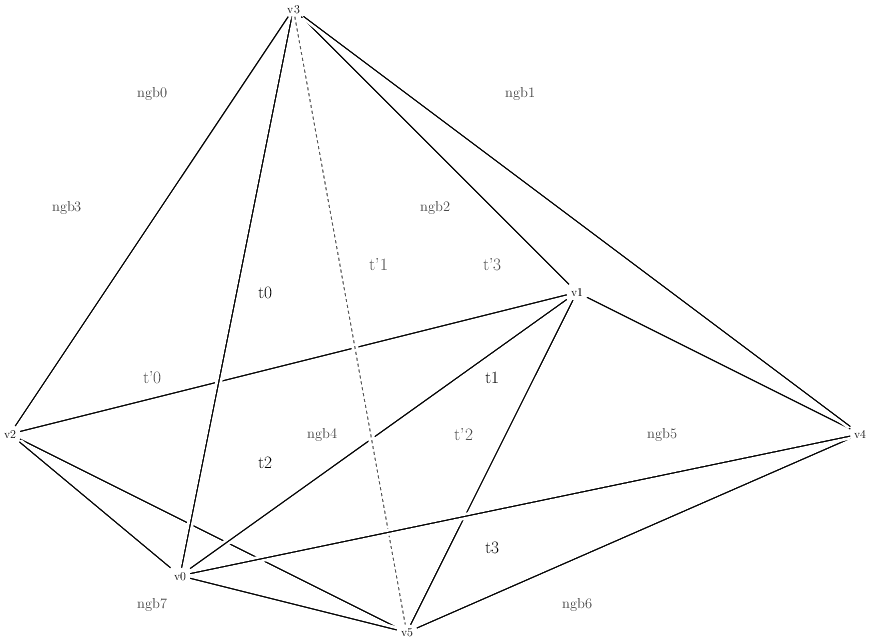
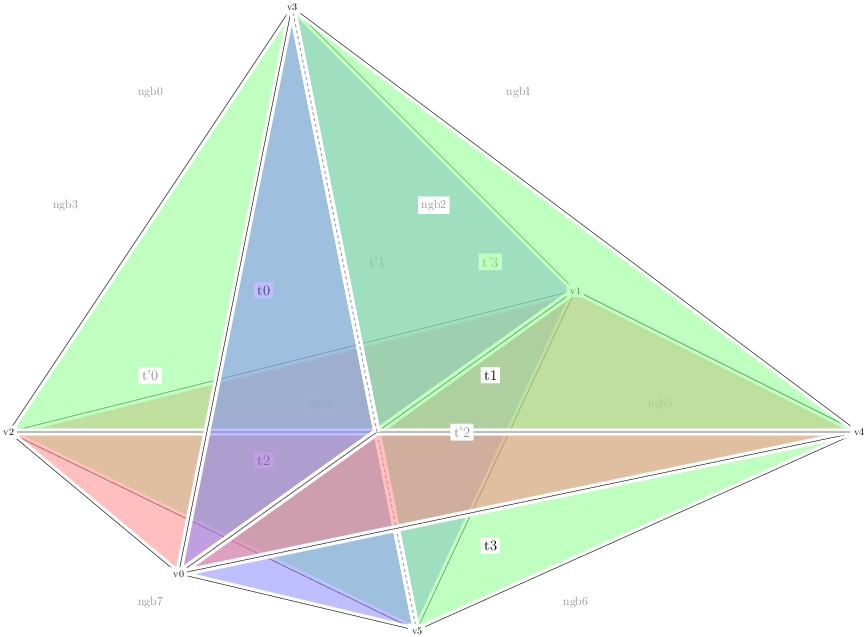
Improved 4 to 4 flip documentation and figure.

diff --git a/doc/newvoronoicell_four_to_four_flip.tex b/doc/newvoronoicell_four_to_four_flip.tex
@@ -1,10 +1,11 @@
-\documentclass[12pt]{standalone}
+\documentclass[convert={density=72,outext=.png}]{standalone}
 \usepackage{tikz}
 \usetikzlibrary{shapes.geometric, arrows}
 \usepackage{amsmath}
 
-\tikzstyle{node} = [rectangle, text centered, align=center]
-\tikzstyle{stealthnode} = [rectangle, text centered, align=center, color=gray]
+\tikzstyle{node} = [rectangle, text centered, align=center, fill=white]
+\tikzstyle{stealthnode} = [rectangle, text centered, align=center, color=gray,
+                           fill=white]
 \tikzstyle{arrow} = [thick,>=stealth]
 \tikzstyle{stealtharrow} = [thick,>=stealth, color=gray, dashed]
 
@@ -19,56 +20,90 @@
     \draw [#3] (#1) -- (#2);
 }
 
+\newcommand{\drawFace}[4]
+{
+  \fill [color=#4!50, opacity = 0.5] (#1) -- (#2) -- (#3) -- (#1);
+  \begin{scope}
+  \draw [color=white, line width=7pt, opacity=1.0] (#1) -- (#2) -- (#3) -- (#1);
+  \end{scope}
+  \draw (#1) -- (#2) -- (#3) -- (#1);
+}
+
 \begin{document}
 
 \begin{tikzpicture}[node distance=4.5cm]
-\node (v3) [node] {v3};
-\node (v1) [node, xshift = 10.0cm, yshift=-10.0cm] {v1};
-\node (v2) [node, xshift = -10.0cm, yshift=-15.0cm] {v2};
-\node (v0) [node, xshift = -4.0cm, yshift=-20.0cm] {v0};
-\node (v4) [node, xshift = 20.0cm, yshift=-15.0cm] {v4};
-\node (v5) [node, xshift = 4.0cm, yshift=-22.0cm] {v5};
+\coordinate (c0) at (-4.0cm, -20.0cm);
+\coordinate (c1) at (10.0cm, -10.0cm);
+\coordinate (c2) at (-10.0cm, -15.0cm);
+\coordinate (c3) at (0.0cm, 0.0cm);
+\coordinate (c4) at (20.0cm, -15.0cm);
+\coordinate (c5) at (4.4cm, -22.0cm);
+\coordinate (intersect) at (3.0cm, -15.0cm);
 
-\drawLinewithBG{v1}{v3}{arrow}
-\drawLinewithBG{v1}{v2}{arrow}
-\drawLinewithBG{v2}{v5}{arrow}
-\drawLinewithBG{v0}{v1}{arrow}
-\drawLinewithBG{v0}{v2}{arrow}
-\drawLinewithBG{v0}{v3}{arrow}
-\drawLinewithBG{v2}{v3}{arrow}
+\drawLinewithBG{c1}{c3}{arrow}
+\drawLinewithBG{c1}{c2}{arrow}
+\drawLinewithBG{c2}{c5}{arrow}
+\drawLinewithBG{c0}{c1}{arrow}
+\drawLinewithBG{c0}{c2}{arrow}
+\drawLinewithBG{c0}{c3}{arrow}
+\drawLinewithBG{c2}{c3}{arrow}
 
-\drawLinewithBG{v1}{v5}{arrow}
-\drawLinewithBG{v1}{v4}{arrow}
-\drawLinewithBG{v3}{v4}{arrow}
+\drawLinewithBG{c1}{c5}{arrow}
+\drawLinewithBG{c1}{c4}{arrow}
+\drawLinewithBG{c3}{c4}{arrow}
 
-\drawLinewithBG{v0}{v5}{arrow}
-\drawLinewithBG{v1}{v5}{arrow}
+\drawLinewithBG{c0}{c5}{arrow}
+\drawLinewithBG{c1}{c5}{arrow}
 
-\drawLinewithBG{v0}{v5}{arrow}
-\drawLinewithBG{v4}{v5}{arrow}
+\drawLinewithBG{c0}{c5}{arrow}
+\drawLinewithBG{c4}{c5}{arrow}
 
-\drawLinewithBG{v3}{v5}{stealtharrow}
+\drawLinewithBG{c3}{c5}{stealtharrow}
 
-\drawLinewithBG{v0}{v4}{arrow}
+\drawLinewithBG{c0}{c4}{arrow}
+
+\node [stealthnode, xshift = 1.0cm, yshift = -14.0cm] {\large ngb4};
+\node [stealthnode, xshift = 13.0cm, yshift = -14.0cm] {\large ngb5};
+
+\drawFace{c2}{c5}{intersect}{green}
+\node [node, xshift = -1.0cm, yshift = -16.0cm] {\Large t2};
+\drawFace{c0}{c1}{c2}{red}
+\drawFace{c2}{c3}{intersect}{green}
 
 \node [node, xshift = -1.0cm, yshift = -10.0cm] {\Large t0};
+
+\node [stealthnode, xshift = 3.0cm, yshift = -9.0cm] {\Large t'1};
+
+\drawFace{c0}{c3}{c1}{blue}
+\drawFace{c0}{c5}{c1}{blue}
+
+\node [stealthnode, xshift = 7.0cm, yshift = -9.0cm] {\Large t'3};
+
+\drawFace{intersect}{c5}{c4}{green}
+\drawLinewithBG{c5}{intersect}{stealtharrow}
+\drawFace{c0}{c1}{c4}{red}
+\node (v1) [node, xshift = 10.0cm, yshift=-10.0cm] {v1};
+\drawFace{intersect}{c4}{c3}{green}
+\drawLinewithBG{c3}{intersect}{stealtharrow}
+
 \node [node, xshift = 7.0cm, yshift = -13.0cm] {\Large t1};
-\node [node, xshift = -1.0cm, yshift = -16.0cm] {\Large t2};
 \node [node, xshift = 7.0cm, yshift = -19.0cm] {\Large t3};
 
 \node [stealthnode, xshift = -5.0cm, yshift = -13.0cm] {\Large t'0};
-\node [stealthnode, xshift = 3.0cm, yshift = -9.0cm] {\Large t'1};
 \node [stealthnode, xshift = 6.0cm, yshift = -15.0cm] {\Large t'2};
-\node [stealthnode, xshift = 7.0cm, yshift = -9.0cm] {\Large t'3};
 
 \node [stealthnode, xshift = -5.0cm, yshift = -3.0cm] {\large ngb0};
 \node [stealthnode, xshift = 8.0cm, yshift = -3.0cm] {\large ngb1};
 \node [stealthnode, xshift = 5.0cm, yshift = -7.0cm] {\large ngb2};
 \node [stealthnode, xshift = -8.0cm, yshift = -7.0cm] {\large ngb3};
-\node [stealthnode, xshift = 1.0cm, yshift = -15.0cm] {\large ngb4};
-\node [stealthnode, xshift = 13.0cm, yshift = -15.0cm] {\large ngb5};
 \node [stealthnode, xshift = 10.0cm, yshift = -21.0cm] {\large ngb6};
 \node [stealthnode, xshift = -5.0cm, yshift = -21.0cm] {\large ngb7};
+
+\node (v3) [node] {v3};
+\node (v2) [node, xshift = -10.0cm, yshift=-15.0cm] {v2};
+\node (v0) [node, xshift = -4.0cm, yshift=-20.0cm] {v0};
+\node (v4) [node, xshift = 20.0cm, yshift=-15.0cm] {v4};
+\node (v5) [node, xshift = 4.4cm, yshift=-22.0cm] {v5};
 
 \end{tikzpicture}
 

diff --git a/src/NewVoronoiCell.cpp b/src/NewVoronoiCell.cpp
@@ -1058,12 +1058,36 @@ unsigned int NewVoronoiCell::two_to_three_flip(
  *
  * @image html newvoronoicell_four_to_four_flip.png
  *
- * The four positively oriented tetrahedra (0123), (0134), (0152), and (0514),
- * that share the edge (01) are replaced by four new positively oriented
- * tetrahedra that share the edge (35): (0352), (1532), (0534), and (1354).
- * The new neighbour relations can be easily deduced from the figure, while the
- * new neighbour indices are automatically set by the way we construct the new
+ * The four positively oriented tetrahedra (v0 v1 v2 v3), (v0 v1 v3 v4),
+ * (v0 v1 v5 v2), and (v0 v5 v1 v4),
+ * that share the edge (v0 v1) are replaced by four new positively oriented
+ * tetrahedra that share the edge (v3 v5) (dashed line in figure):
+ * (v0 v3 v5 v2), (v1 v5 v3 v2), (v0 v5 v3 v4), and (v1 v3 v5 v4).
+ *
+ * The original red shared faces are hence replaced by the new green shared
+ * faces in the figure; the blue shared faces will also be shared by the new
  * tetrahedra.
+ *
+ * Originally, t0 has ngb0 and ngb3 as neighbours, t1 has ngb1 and ngb2 as
+ * neighbours, t2 has ngb4 and ngb7 as neighbours, and t3 has ngb5 and ngb6 as
+ * neighbours. After the flip, t'0 has ngb3 and ngb7 as neighbours, t'1 has ngb0
+ * and ngb4 as neighbours, t'2 has ngb2 and ngb6 as neighbours, and t'3 has ngb1
+ * and ngb5 as neighbours.
+ *
+ * The tetrahedra should be given to this routine in the expected order: t0
+ * should have t1 and t2 as neighbours, while t3 should be a common neighbour of
+ * t1 and t2, but not of t3.
+ *
+ * The first thing we do is figure out how the internal vertex indices of the
+ * four tetrahedra map to the names in the figure. We do this by identifying the
+ * indices of the common axis vertices v0 and v1 in all tetrahedra, and the
+ * index of v2 in t0. Once we know v0, v1 and v2 in t0, we can deduce the index
+ * of v3 in in t0, and require that (v0 v1 v2 v3) is positively oriented (if
+ * not, we swap v0 and v1 in all tetrahedra so that it is).
+ *
+ * Once the indices have been mapped, it is straightforward to deduce the
+ * actual vertices, neighbours and neighbour indices, and we can simply
+ * construct the new tetrahedra based on the figure.
  *
  * @param tetrahedron0 First tetrahedron.
  * @param tetrahedron1 Second tetrahedron.
